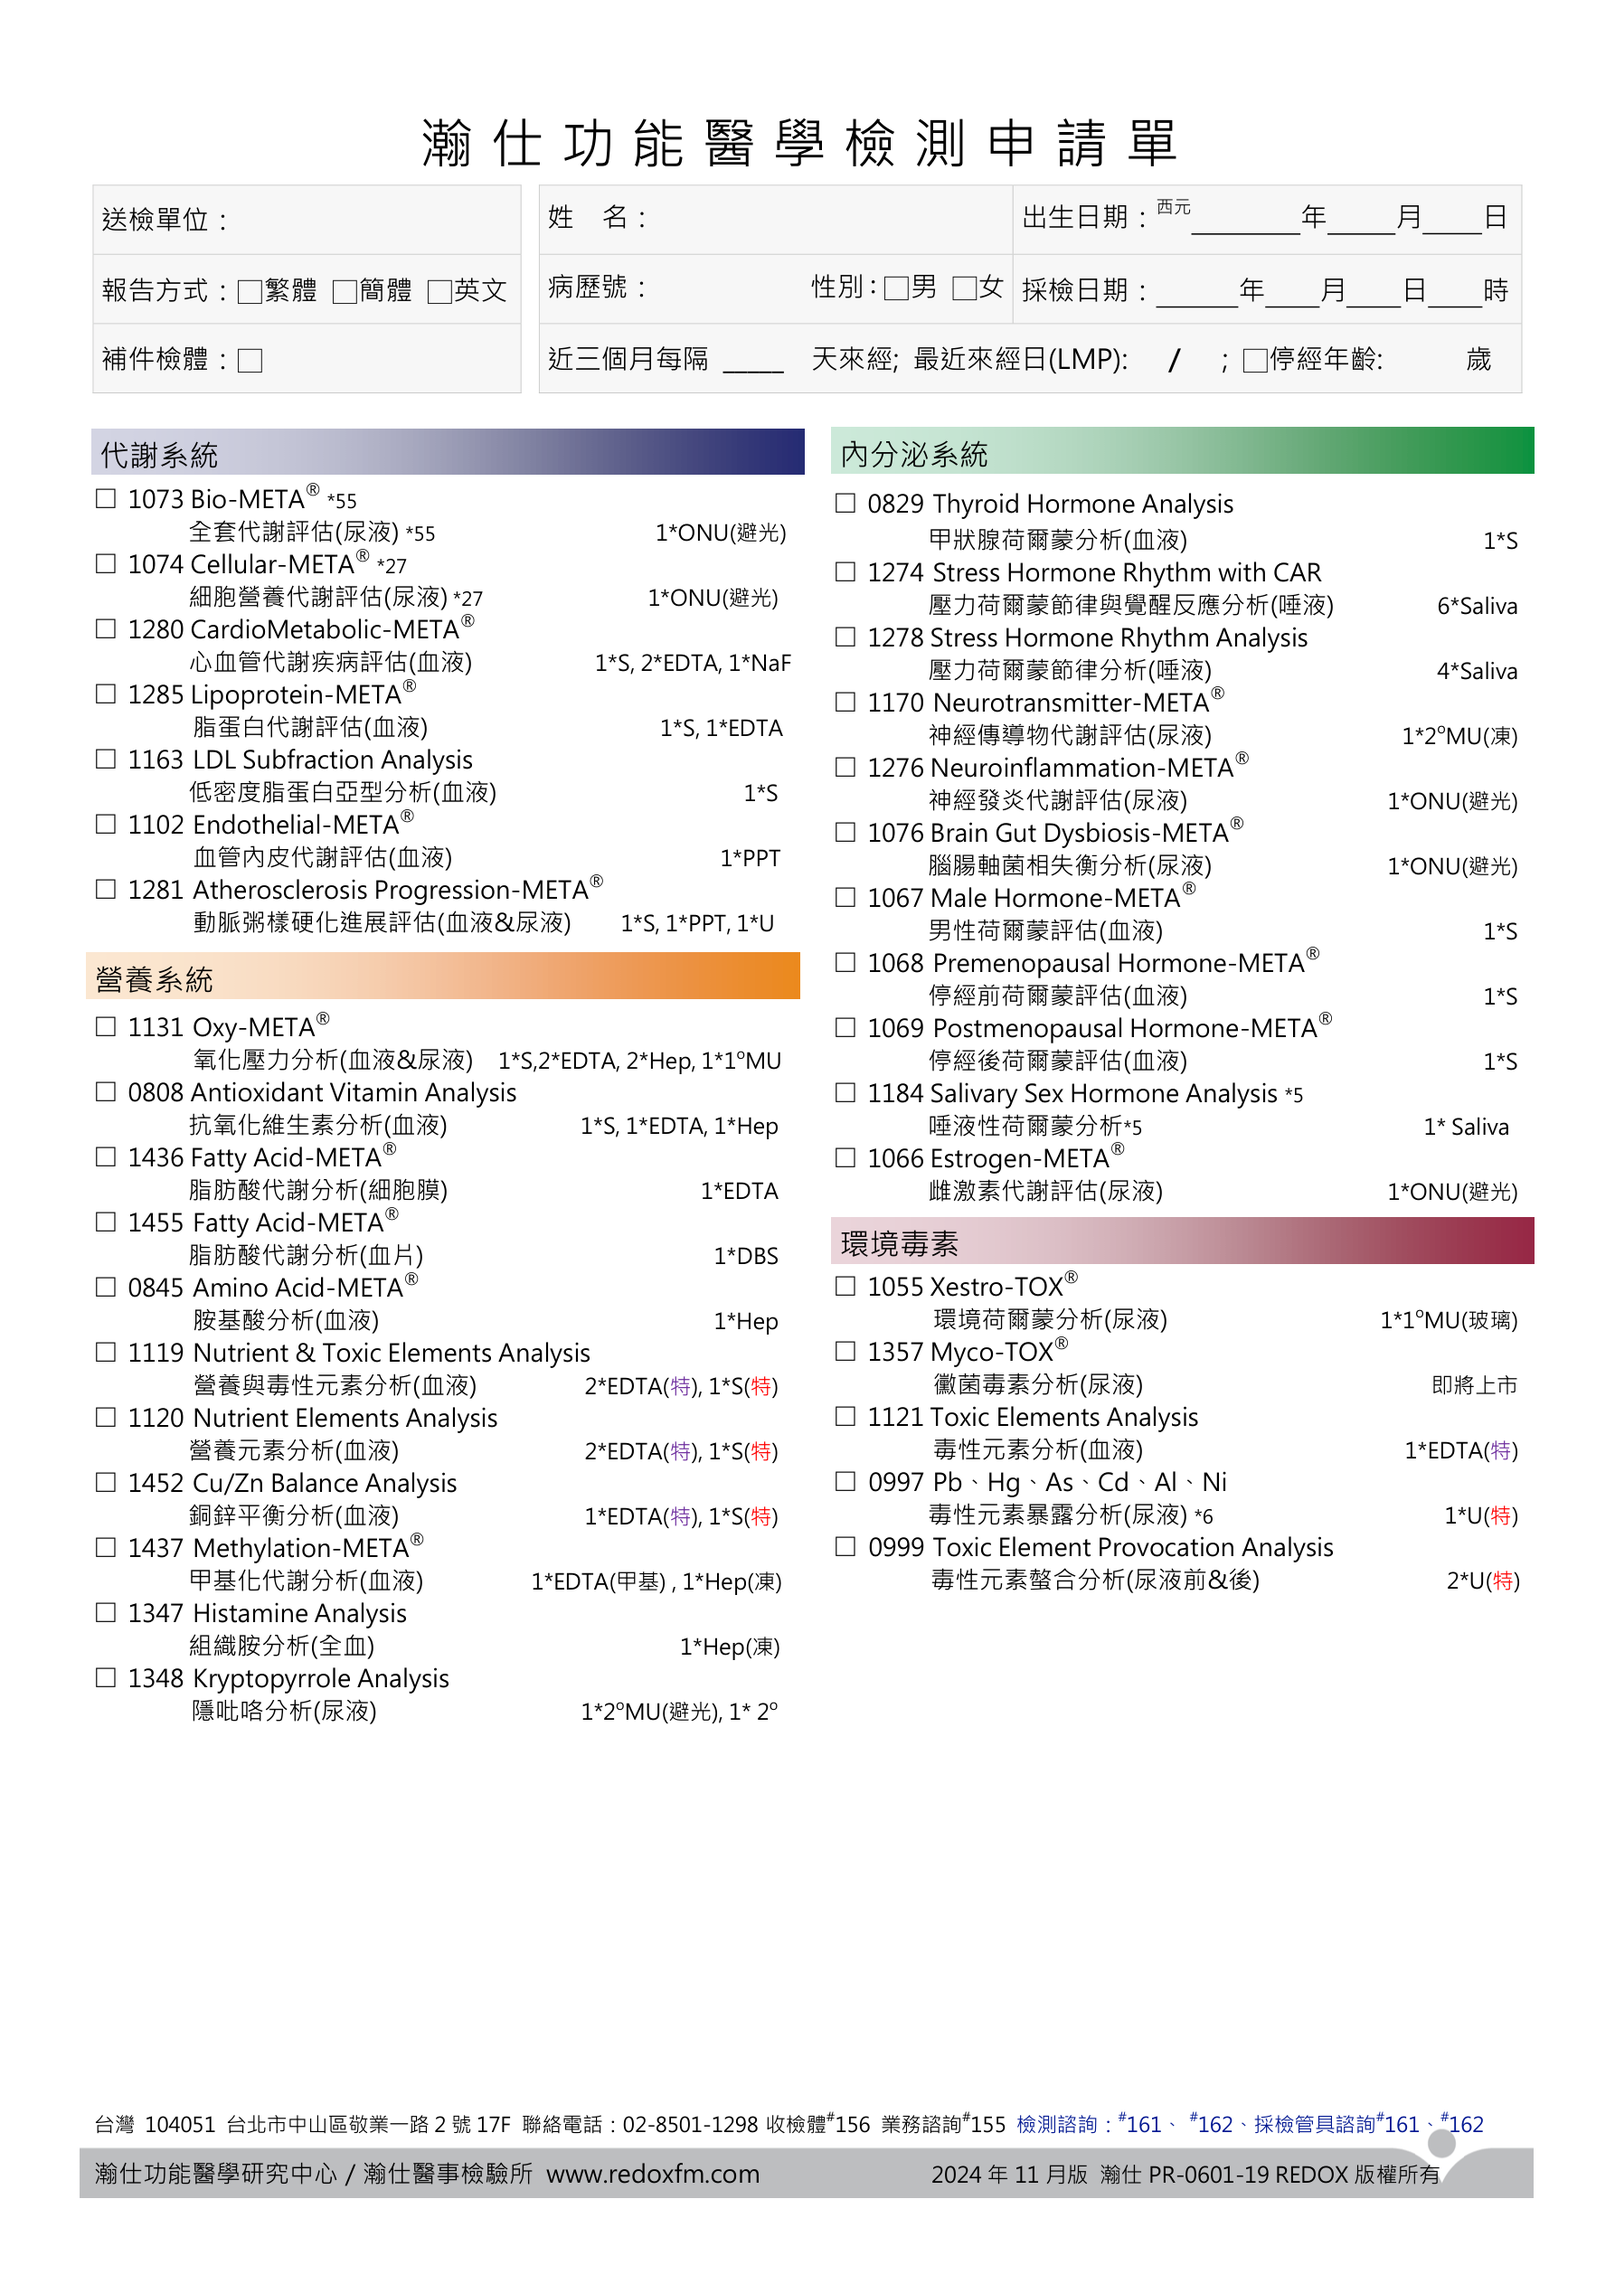
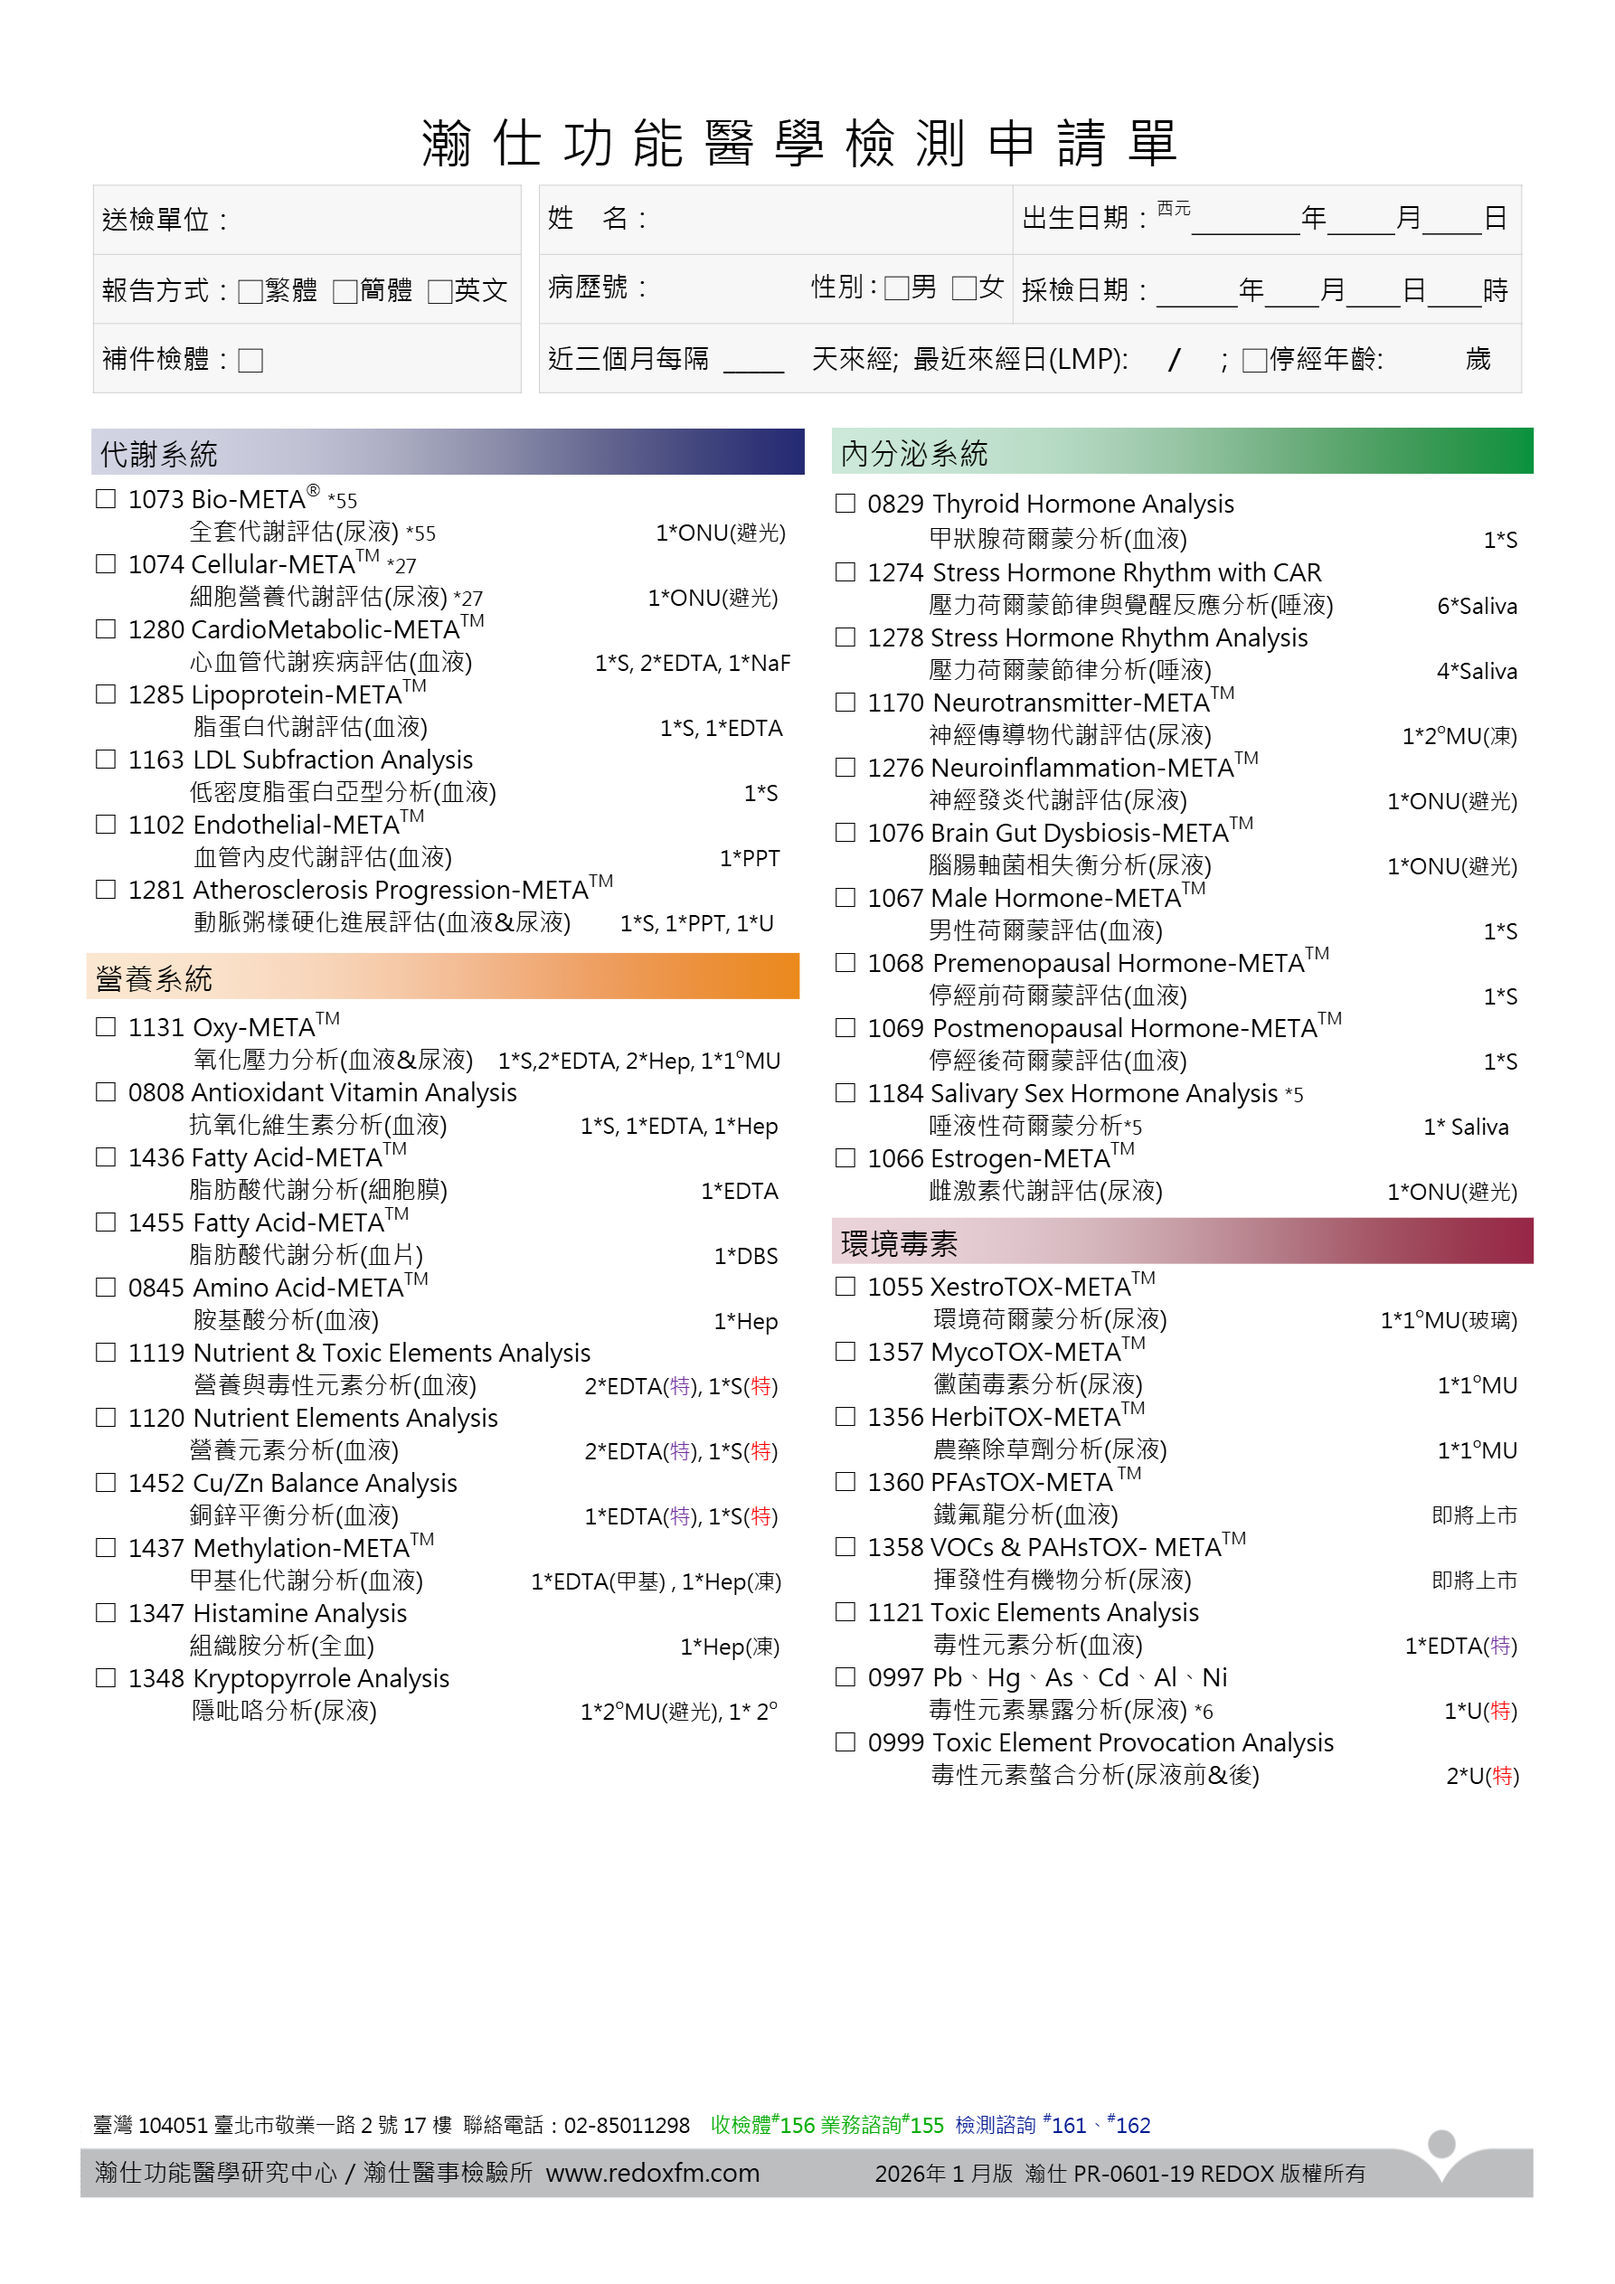
feat: update Hanshi form to new version - page1 adds 3 env-toxin tests, page2 removes 1296/0872; regenerated from model.json

diff --git a/src/components/HanshiFormV2.tsx b/src/components/HanshiFormV2.tsx
@@ -34,6 +34,8 @@ export default function HanshiFormV2({ client, onClose, onRefresh, initialData, 
 }) {
   const [pagesBoxes, setPagesBoxes] = useState<PageBoxes[] | null>(null);
   const [headers, setHeaders] = useState<Record<string, PageHeader> | null>(null);
+  const [names, setNames] = useState<Record<string, string>>({});
+  const nameOf = (code: string) => names[code] || CODE_INFO[code]?.name || code;
   const [checked, setChecked] = useState<Record<string, boolean>>(() =>
     initialData ? Object.fromEntries(initialData.items.map((i) => [i.code, true])) : {});
   const [page, setPage] = useState(0);
@@ -58,7 +60,8 @@ export default function HanshiFormV2({ client, onClose, onRefresh, initialData, 
     Promise.all([
       fetch("/hanshi-boxes.json").then((r) => r.json()),
       fetch("/hanshi-header.json").then((r) => r.json()),
-    ]).then(([b, h]) => { setPagesBoxes(b); setHeaders(h); }).catch(() => {});
+      fetch("/hanshi-names.json").then((r) => r.json()).catch(() => ({})),
+    ]).then(([b, h, n]) => { setPagesBoxes(b); setHeaders(h); setNames(n || {}); }).catch(() => {});
   }, []);
 
   const toggle = (code: string) => setChecked((p) => ({ ...p, [code]: !p[code] }));
@@ -72,7 +75,7 @@ export default function HanshiFormV2({ client, onClose, onRefresh, initialData, 
       testDate: info.sampleDate,
       testType: "瀚仕功能醫學檢測申請單",
       status: "scheduled",
-      findings: JSON.stringify({ items: codes.map((c) => ({ code: c, name: CODE_INFO[c]?.name || c })), info }),
+      findings: JSON.stringify({ items: codes.map((c) => ({ code: c, name: nameOf(c) })), info }),
     };
     try {
       if (existingId) await fetch(`/api/clients/${client.id}/lab-tests/${existingId}`, { method: "PATCH", headers: { "Content-Type": "application/json" }, body: JSON.stringify(payload) });
@@ -134,7 +137,7 @@ export default function HanshiFormV2({ client, onClose, onRefresh, initialData, 
         {/* Item checkboxes — box sits at (x,y); center the ✓ inside it */}
         {pb.boxes.map((b) => (
           <div key={b.code} onClick={forPrint ? undefined : () => toggle(b.code)}
-            title={`${b.code} ${CODE_INFO[b.code]?.name || ""}`}
+            title={`${b.code} ${nameOf(b.code)}`}
             style={{ position: "absolute", left: (b.x - 1) * s, top: (b.y - 1) * s, width: BOX * s, height: BOX * s, cursor: forPrint ? "default" : "pointer", display: "flex", alignItems: "center", justifyContent: "center", color: "#111", fontWeight: 700, fontSize: 10 * s, lineHeight: 1, background: !forPrint && checked[b.code] ? "rgba(37,99,235,.12)" : "transparent" }}>
             {checked[b.code] ? "✓" : ""}
           </div>
